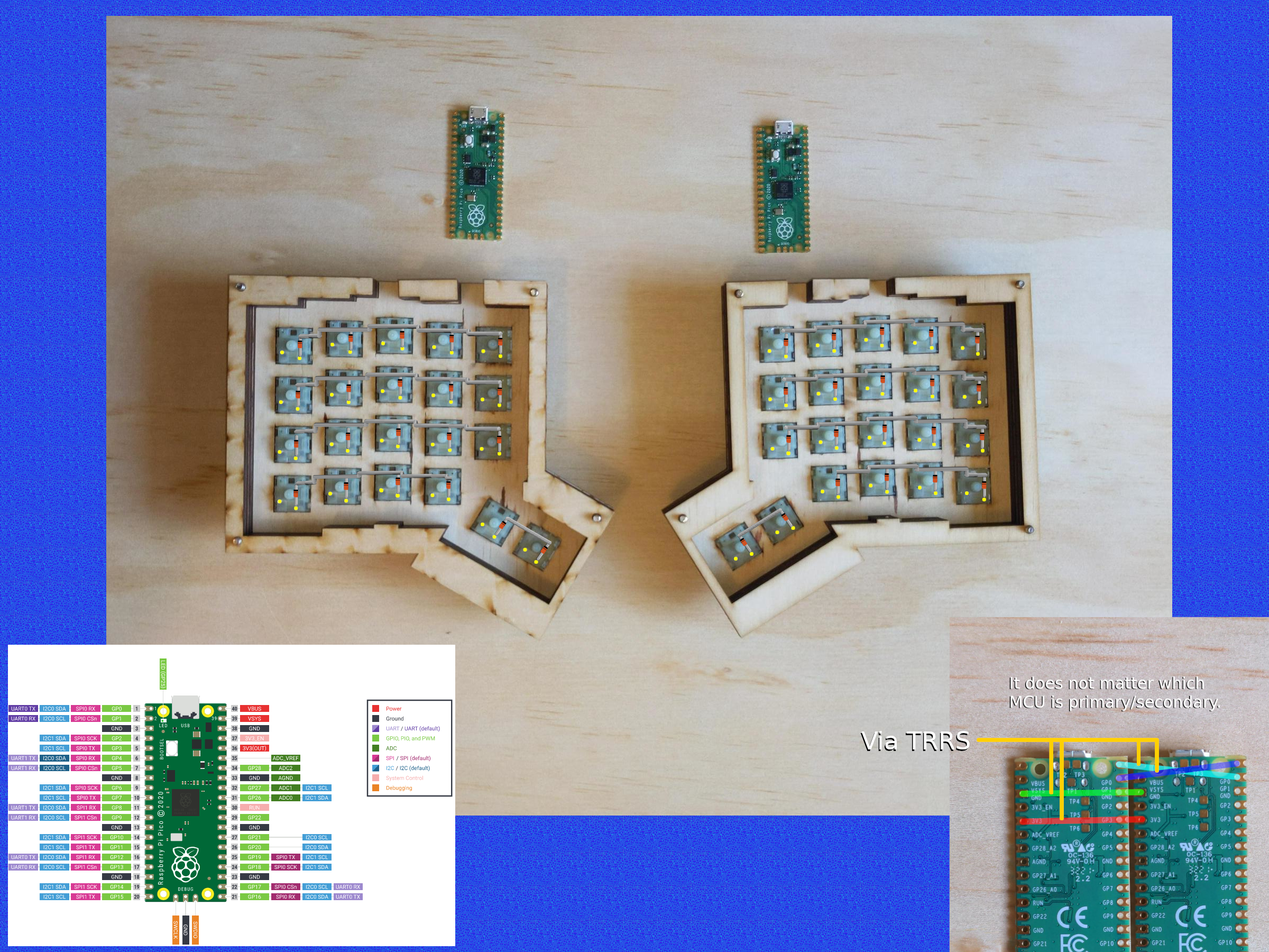
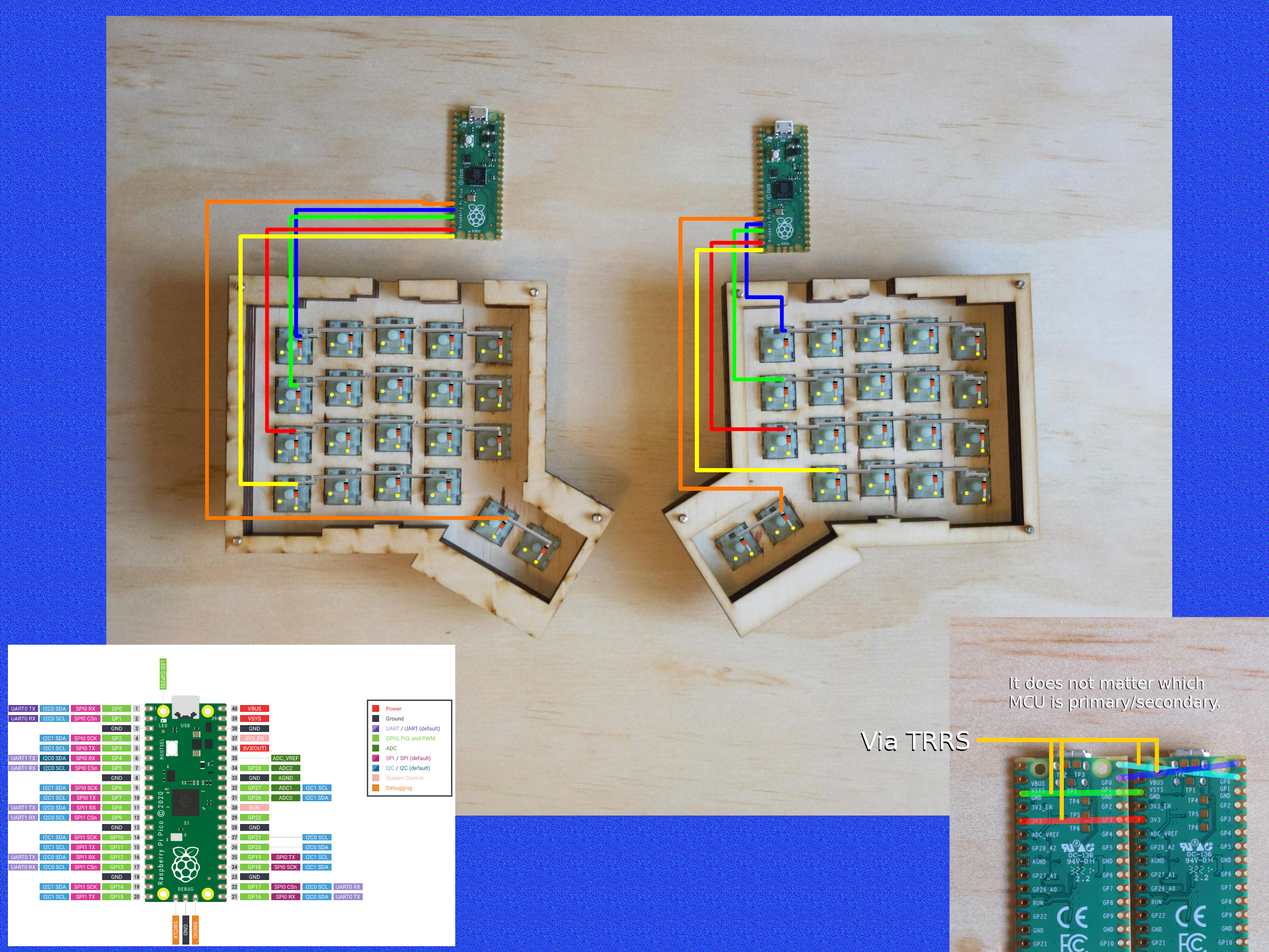
Define wiring between rows and MCUs.

Changed region(s): [[0.1562, 0.1867, 0.4062, 0.56], [0.5312, 0.2178, 0.6562, 0.5289]]

diff --git a/docs/assembly/wiring.md b/docs/assembly/wiring.md
@@ -71,10 +71,11 @@ It's possible this is a cat-skinning problem.
 | 36 | 3V3(OUT) | TRRS - power transmission |
 | 1  | GP0 | Serial TX |
 | 2  | GP1 | Serial RX |
-| X  | GPX | Top row |
-| Y  | GPY | Home row |
-| Z  | GPZ | Below home row |
-| W  | GPW | Bottom row |
+| 16 | GP12 | Top row |
+| 17 | GP13 | Home row |
+| 19 | GP14 | Below home row |
+| 20 | GP15 | Bottom row |
+| 15 | GP11 | Thumb row |
 | A  | GPA | Pinky column |
 | B  | GPB | Ring column |
 | C  | GPC | Middle column |
